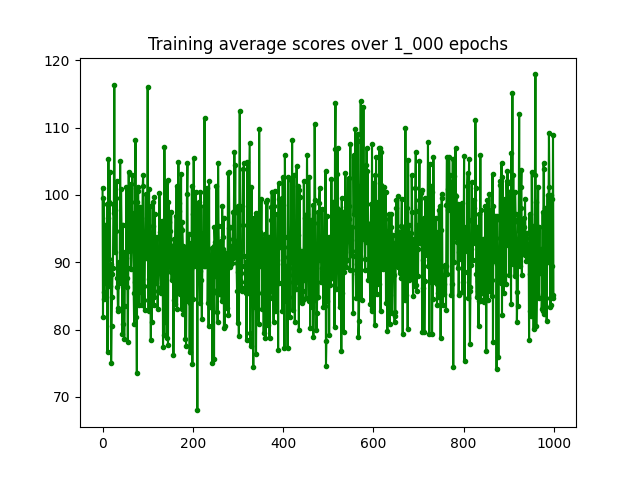
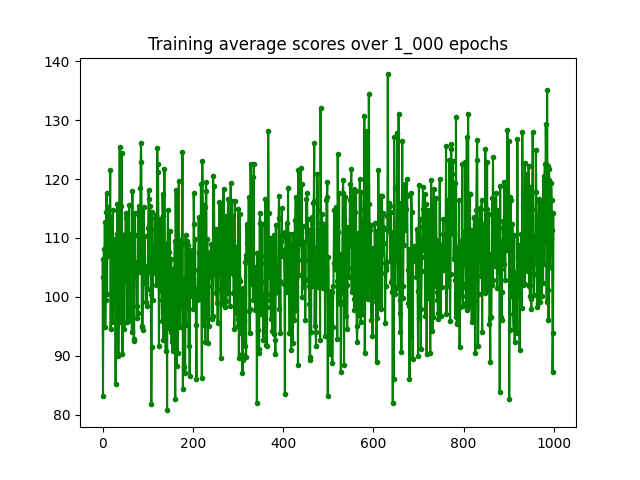
fix qsmall

diff --git a/src/ai/q.py b/src/ai/q.py
@@ -302,7 +302,7 @@ class QSmall:
         # if np.random.rand() < exploration_factor:
         #     return np.random.choice(valid_actions)
 
-        x = valid_actions[
+        return valid_actions[
             np.argmax(
                 np.where(
                     self.n[state_id, valid_actions] < 5,
@@ -311,8 +311,6 @@ class QSmall:
                 )
             )
         ]
-        print(x > 13)
-        return x
 
         # # compute action values favoring less frequent actions (by a lot)
         # values = np.where(self.n[state_id, valid_actions] < 5, 1_000, self.q[state_id, valid_actions])
@@ -361,8 +359,8 @@ class QSmall:
             #
             # basically we reward the agent by a mean of the possible scores obtainable by each
             # action (even if the action can't actually be selected)
-            new_reward = (sum(scores) + first_six_bonus + yahtzee_bonus) / max(1, sum(score > 0 for score in scores))
-            # new_reward = (sum(scores) + first_six_bonus + yahtzee_bonus) / CATEGORY_COUNT
+            # new_reward = (sum(scores) + first_six_bonus + yahtzee_bonus) / max(1, sum(score > 0 for score in scores))
+            new_reward = (sum(scores) + first_six_bonus + yahtzee_bonus) / CATEGORY_COUNT
             # new_reward = sum(scores) + first_six_bonus + yahtzee_bonus
 
             # reward the agent based on the highest score obtainable from this next state
@@ -399,6 +397,7 @@ class QSmall:
                 )
 
             state = next_state
+            state_id = next_state_id
 
         return state.player_states[0].total_score()
 

diff --git a/src/test.py b/src/test.py
@@ -31,9 +31,9 @@ if __name__ == "__main__":
     # )
 
     # different stats
-    indices = np.random.choice(q.q.shape[0], size=20, replace=False)
-    for i, line in zip(indices, q.q[indices]):
-        print(line, i % 3)
+    # indices = np.random.choice(q.q.shape[0], size=20, replace=False)
+    # for i, line in zip(indices, q.q[indices]):
+    #     print(line, i % 3)
 
     print(f"Explored:       {np.count_nonzero(q.n) / q.n.size:.4f}")
     print(f"Fully explored: {np.count_nonzero(q.n > 5) / q.n.size:.4f}")
